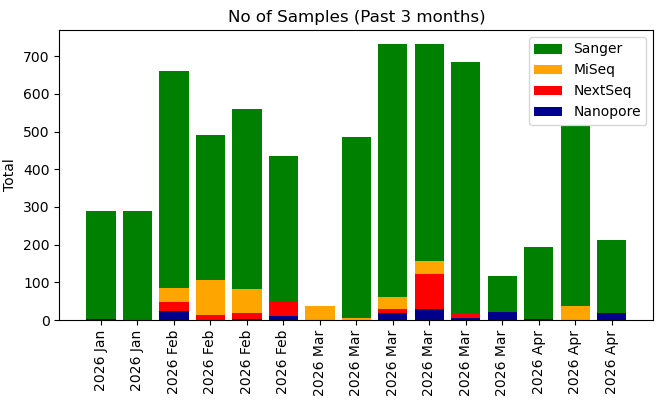
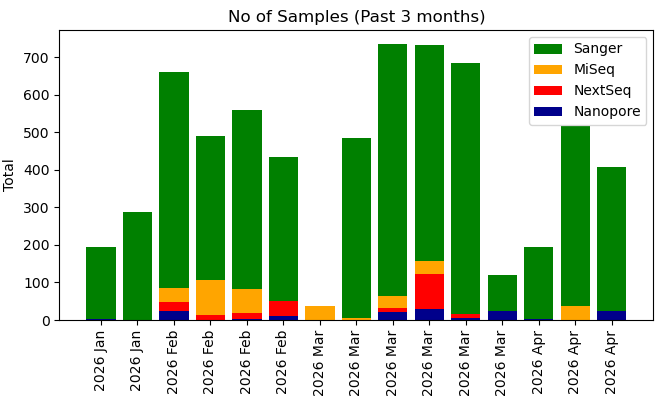
Your commit message here

diff --git a/krona/cgs.html b/krona/cgs.html
@@ -52,8 +52,8 @@ body {
   flex-direction: column;
 }
 </style>
-<H1>Genomics Facility Status: 07:00:16, 16/04/2026</H1>
-<marquee behavior="scroll" scrollamount="20" direction="left" bgcolor="lightgrey">AGAGTTTGATCCTGGCTCAGGACGAACGCTGGCGGCGTGCTTAACACATGCAAGTCGAACGAGAAACCATCTTTTGAAAATTCACAAGATTTAGAGTGTTTCTAGTGGCGGGAGAATGTGCCCTTGGGCGGGGAACAACAGTTTGAAAGGGGTGCAAATACACCAAATGATGCCAGTACCGCTAAAGGGATCAAAAATGCCGGGGCCCGAGGGTGAAACTCCAGCTGAATAACTAGGTGCGGGGGTAAGTT</marquee>
+<H1>Genomics Facility Status: 07:00:17, 17/04/2026</H1>
+<marquee behavior="scroll" scrollamount="20" direction="left" bgcolor="lightgrey">AGAGTTTGATCCTGGCTCAGGATAAACGCTGGCGGCGCACATAAGACATGCAAGTCGAACGGAAGTCGTTATAAAAGGAGAGAAGATTTATCGGATTGAATTCTATAACAATGGCTTTAGTGGCGGACTGGTGAGTAACGCGTAAGGAACCTACCTATTAGAGGGGAACAACAATGAGAAATCATTGCTAATACCGCATATGCCATAACTACCACATGGTAGAAGGGGGAAAGGAGTAATCCGCTGAT</marquee>
 <TABLE BORDER=0><TR><TD><TABLE class="styled-table"><H3>GigaBases Sequenced</H3>
-<TR><TD><b>Platform</b></TD><TD><b>Week</b></TD><TD><b>Month</b></TD><TD><b>Year</b></TD><TD><b>Total</b></TD></TR><TR><TD>Illumina MiSeq</TD><TD>7.92</TD><TD>15.91</TD><TD>343.16</TD><TD>525.02</TD></TR><TR><TD>Illumina NextSeq</TD><TD>0.0</TD><TD>214.84</TD><TD>4466.95</TD><TD>6463.94</TD></TR><TR><TD>Nanopore PromethION</TD><TD>109.59</TD><TD>768.17</TD><TD>7398.28</TD><TD>11986.34</TD></TR><TR><TD>Sanger</TD><TD>0.0</TD><TD>0.0</TD><TD>0.02</TD><TD>0.04</TD></TR></TABLE></TD><TD><IMG SRC="fig1.png"><IMG SRC="fig2.png"></TD></TR><TR><TD><H3>No. Samples (No. Experiments)</H3>
-<TABLE class="styled-table"><TR><TD><b>Platform</b></TD><TD><b>Week</b></TD><TD><b>Month</b></TD><TD><b>Year</b></TD><TD><b>Total</b></TD></TR><TR><TD>Illumina MiSeq</TD><TD>35 (1)</TD><TD>70 (2)</TD><TD>1436 (69)</TD><TD>2374 (94)</TD></TR><TR><TD>Illumina NextSeq</TD><TD>0 (0)</TD><TD>106 (3)</TD><TD>1364 (65)</TD><TD>2085 (83)</TD></TR><TR><TD>Nanopore PromethION</TD><TD>19 (7)</TD><TD>74 (23)</TD><TD>560 (178)</TD><TD>953 (328)</TD></TR><TR><TD>Sanger</TD><TD>480 (480)</TD><TD>2206 (2206)</TD><TD>20251 (20251)</TD><TD>42978 (42978)</TD></TR></TABLE></TD><TD><IMG SRC="fig4.png"></TD></TR></TABLE></HTML>
+<TR><TD><b>Platform</b></TD><TD><b>Week</b></TD><TD><b>Month</b></TD><TD><b>Year</b></TD><TD><b>Total</b></TD></TR><TR><TD>Illumina MiSeq</TD><TD>0.0</TD><TD>15.91</TD><TD>343.16</TD><TD>525.02</TD></TR><TR><TD>Illumina NextSeq</TD><TD>0.0</TD><TD>214.84</TD><TD>4442.84</TD><TD>6463.94</TD></TR><TR><TD>Nanopore PromethION</TD><TD>110.28</TD><TD>771.67</TD><TD>7401.87</TD><TD>11989.93</TD></TR><TR><TD>Sanger</TD><TD>0.0</TD><TD>0.0</TD><TD>0.02</TD><TD>0.04</TD></TR></TABLE></TD><TD><IMG SRC="fig1.png"><IMG SRC="fig2.png"></TD></TR><TR><TD><H3>No. Samples (No. Experiments)</H3>
+<TABLE class="styled-table"><TR><TD><b>Platform</b></TD><TD><b>Week</b></TD><TD><b>Month</b></TD><TD><b>Year</b></TD><TD><b>Total</b></TD></TR><TR><TD>Illumina MiSeq</TD><TD>0 (0)</TD><TD>70 (2)</TD><TD>1436 (69)</TD><TD>2374 (94)</TD></TR><TR><TD>Illumina NextSeq</TD><TD>0 (1)</TD><TD>106 (4)</TD><TD>1343 (65)</TD><TD>2085 (84)</TD></TR><TR><TD>Nanopore PromethION</TD><TD>25 (13)</TD><TD>84 (33)</TD><TD>573 (191)</TD><TD>966 (341)</TD></TR><TR><TD>Sanger</TD><TD>576 (576)</TD><TD>2398 (2398)</TD><TD>20347 (20347)</TD><TD>43170 (43170)</TD></TR></TABLE></TD><TD><IMG SRC="fig4.png"></TD></TR></TABLE></HTML>
